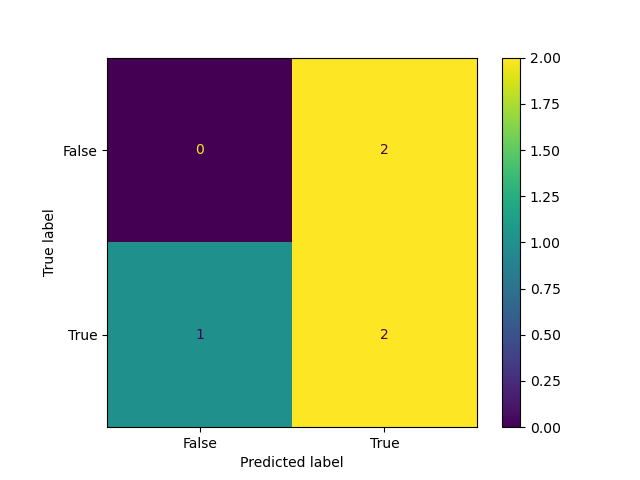
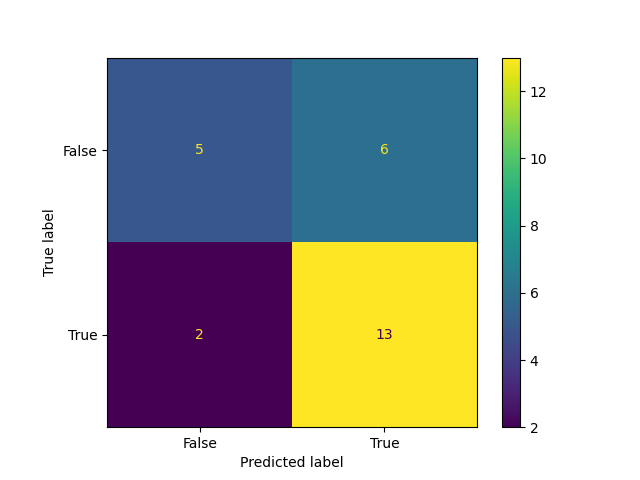
successful version

diff --git a/diagnostics.py b/diagnostics.py
@@ -1,35 +1,19 @@
-import os
-import pickle
 import timeit
 import subprocess
+import functools
 import pandas as pd
 import utils
+import ingestion
+import training
 
-
-# Load config.json and get environment variables
-config = utils.load_configuration('development')
-dataset_csv_path = os.path.join(config['output_folder_path'])
-test_data_path = os.path.join(config['test_data_path'])
-prod_deployment_path = os.path.join(config['prod_deployment_path'])
-model_name = config['model_name']
-
-
-def read_input_data(data_path: str):
-    input_data = pd.concat(
-        [pd.read_csv(os.path.join(data_path, input_file), index_col='corporation')
-         for input_file in os.listdir(data_path) if input_file.endswith(".csv")
-         ]
-    )
-    return input_data
 
 # Function to get model predictions
 
 
-def model_predictions(input_data: pd.DataFrame):
+def model_predictions(input_data: pd.DataFrame, mode='development'):
     # read the deployed model and a test dataset, calculate predictions
     # read deployed model
-    with open(os.path.join(prod_deployment_path, model_name), 'rb') as fp:
-        model = pickle.load(fp)
+    model = utils.read_model(mode)
     # drop target column if in data
     if 'exited' in input_data.columns:
         input_data = input_data.drop(['exited'], axis=1)
@@ -42,8 +26,8 @@ def model_predictions(input_data: pd.DataFrame):
 # Function to get summary statistics
 
 
-def dataframe_summary():
-    data = read_input_data(test_data_path)
+def dataframe_summary(mode='development'):
+    data = utils.read_input_data(mode)
     # calculate summary statistics here
     summary_statistics = data.describe().loc[['mean', 'std', '50%']]
     summary_statistics.index = ['mean', 'std', 'median']
@@ -54,8 +38,8 @@ def dataframe_summary():
 # Function to get percentage of missing data
 
 
-def dataframe_missing_values():
-    data = read_input_data(test_data_path)
+def dataframe_missing_values(mode='development'):
+    data = utils.read_input_data(mode)
     # For ease of use I will leverage the count values of the describe method
     # because it counts the non-null values ;)
     samples = len(data)
@@ -67,14 +51,23 @@ def dataframe_missing_values():
 
 
 # Function to get timings
-def execution_time():
+def execution_time(mode='development'):
     # calculate timing of training.py and ingestion.py
-    import ingestion
     ingestion_duration = timeit.timeit(
-        ingestion.merge_multiple_dataframe, number=1)
+        functools.partial(
+            ingestion.merge_multiple_dataframe,
+            mode
+            ),
+        number=1
+        )
 
-    import training
-    training_duration = timeit.timeit(training.train_model, number=1)
+    training_duration = timeit.timeit(
+        functools.partial(
+            training.train_model,
+            mode
+            ),
+        number=1
+        )
 
     # return a list of 2 timing values in seconds
     return [ingestion_duration, training_duration]
@@ -93,7 +86,7 @@ def outdated_packages_list():
 
 
 if __name__ == '__main__':
-    model_predictions(read_input_data(test_data_path))
+    model_predictions(utils.read_input_data('development'))
     dataframe_summary()
     execution_time()
     print(outdated_packages_list())

diff --git a/apicalls.py b/apicalls.py
@@ -6,27 +6,33 @@ import utils
 # Specify a URL that resolves to your workspace
 URL = "http://127.0.0.1:8080/"
 
-config = utils.load_configuration('development')
-test_data_path = os.path.join(config['test_data_path'])
-output_model_path = os.path.join(config['output_model_path'])
 
 
-# Call each API endpoint and store the responses
-response1 = requests.post(f'{URL}prediction?data_path={test_data_path}', timeout=10).text
-response2 = requests.get(f'{URL}scoring', timeout=10).text  # put an API call here
-response3 = requests.get(f'{URL}summarystats', timeout=10).text
-response4 = requests.get(f'{URL}diagnostics', timeout=10).text
-response5 = requests.get(f'{URL}outdatedpackages', timeout=10).text
+def call_api(mode = 'development'):
 
-# combine all API responses
-responses = {
-    'prediction': response1,
-    'f1_score': response2,
-    'summary_stats': response3,
-    'diagnostics': response4,
-    'outdated_packages': response5
-}
+    config = utils.load_configuration(mode)
+    test_data_path = os.path.join(config['test_data_path'])
+    output_model_path = os.path.join(config['output_model_path'])
 
-# write the responses to your workspace
-with open(os.path.join(output_model_path, 'apireturns.txt'), 'w', encoding='utf-8') as fp:
-    pprint(responses, width=70, stream=fp)
+    # Call each API endpoint and store the responses
+    response1 = requests.post(f'{URL}prediction?mode={mode}', timeout=10).text
+    response2 = requests.get(f'{URL}scoring?mode={mode}', timeout=10).text  # put an API call here
+    response3 = requests.get(f'{URL}summarystats?mode={mode}', timeout=10).text
+    response4 = requests.get(f'{URL}diagnostics?mode={mode}', timeout=10).text
+    response5 = requests.get(f'{URL}outdatedpackages', timeout=10).text
+
+    # combine all API responses
+    responses = {
+        'prediction': response1,
+        'f1_score': response2,
+        'summary_stats': response3,
+        'diagnostics': response4,
+        'outdated_packages': response5
+    }
+
+    # write the responses to your workspace
+    with open(os.path.join(output_model_path, 'apireturns.txt'), 'w', encoding='utf-8') as fp:
+        pprint(responses, width=70, stream=fp)
+
+if __name__ == '__main__':
+    call_api()

diff --git a/scoring.py b/scoring.py
@@ -1,18 +1,7 @@
-import pickle
 import os
 import pandas as pd
 from sklearn import metrics
 import utils
-
-def read_model(mode='development'):
-    # load model
-    config = utils.load_configuration(mode)
-    model_path = os.path.join(config['output_model_path'])
-    model_name = config['model_name']
-    model_file = os.path.join(model_path, model_name)
-    with open(os.path.join(model_file), 'rb') as fp:
-        model = pickle.load(fp)
-    return model
 
 # Function for model scoring
 
@@ -25,9 +14,7 @@ def score_model(model=None, test_data=[], write=False, mode='development'):
     # test_Data set if given
     config = utils.load_configuration(mode)
     test_data_path = os.path.join(config['test_data_path'])
-    prod_deployment_path = os.path.join(config['prod_deployment_path'])
     model_path = os.path.join(config['output_model_path'])
-    model_name = config['model_name']
 
     if len(test_data) == 0:
         test_data = os.listdir(test_data_path)
@@ -45,7 +32,7 @@ def score_model(model=None, test_data=[], write=False, mode='development'):
 
     # if no model is given, load the deployed model
     if model is None:
-        model = read_model(os.path.join(prod_deployment_path, model_name))
+        model = utils.read_model(mode)
 
     # create prediction on test_data
     prediction = model.predict(test_data)
@@ -62,6 +49,6 @@ def score_model(model=None, test_data=[], write=False, mode='development'):
 
 if __name__ == '__main__':
     score_model(
-        read_model(),
+        utils.read_model('development'),
         write=True
     )

diff --git a/fullprocess.py b/fullprocess.py
@@ -6,6 +6,7 @@ import training
 import scoring
 import deployment
 import reporting
+import apicalls
 
 config = utils.load_configuration('production')
 dataset_csv_path = os.path.join(config['output_folder_path'])
@@ -40,7 +41,7 @@ def run():
         f1_model = float(fp.read())
 
     print("Scoring against new data")
-    model_prod = scoring.read_model('production')
+    model_prod = utils.read_model('production')
     f1_new = scoring.score_model(model_prod, test_data=new_data, mode='production')
 
     # Deciding whether to proceed, part 2
@@ -52,8 +53,8 @@ def run():
         return
 
     print("Model drift detected. Preparing data and start re-training.")
-    ingestion.merge_multiple_dataframe()
-    model = training.train_model()
+    ingestion.merge_multiple_dataframe('production')
+    model = training.train_model('production')
     print("Creating new test score")
     scoring.score_model(model, write=True, mode='production')
     # Re-deployment
@@ -66,6 +67,7 @@ def run():
     reporting.score_model('production')
     # run diagnostics using the apicalls ;) do not forget to run the flask
     # server first by starting app.py in another terminal
+    apicalls.call_api('production')
 
 
 

diff --git a/app.py b/app.py
@@ -19,8 +19,8 @@ prediction_model = None
 @app.route("/prediction", methods=['POST', 'OPTIONS'])
 def predict():
     # call the prediction function you created in Step 3
-    data_path = request.args.get('data_path')
-    data = diagnostics.read_input_data(data_path)
+    mode = request.args.get('mode')
+    data = utils.read_input_data(mode)
     predictions = diagnostics.model_predictions(data)
     return jsonify(str(predictions))  # add return value for prediction outputs
 
@@ -30,7 +30,8 @@ def predict():
 @app.route("/scoring", methods=['GET', 'OPTIONS'])
 def score():
     # check the score of the deployed model
-    f1 = scoring.score_model()
+    mode = request.args.get('mode')
+    f1 = scoring.score_model(mode=mode)
     return jsonify(f1)  # add return value (a single F1 score number)
 
 # Summary Statistics Endpoint
@@ -55,7 +56,7 @@ def diagnose():
         'na_percentage': na_prcnt,
         'timings': {
             'ingestion_duration': timings[0],
-            'training_duration': timings[0]
+            'training_duration': timings[1]
         }
     }
     return jsonify(str(diagnosis))  # add return value for all diagnostics

diff --git a/utils.py b/utils.py
@@ -1,4 +1,7 @@
+import os
 import json
+import pickle
+import pandas as pd
 
 def load_configuration(mode:str):
     # Load config.json and get input and output paths
@@ -6,3 +9,23 @@ def load_configuration(mode:str):
         config = json.load(f)
 
     return config[mode]
+
+def read_input_data(mode:str='development'):
+    config = load_configuration(mode)
+    data_path = os.path.join(config['output_folder_path'])
+    input_data = pd.concat(
+        [pd.read_csv(os.path.join(data_path, input_file), index_col='corporation')
+         for input_file in os.listdir(data_path) if input_file.endswith(".csv")
+         ]
+    )
+    return input_data
+
+def read_model(mode='development'):
+    # load model
+    config = load_configuration(mode)
+    model_path = os.path.join(config['output_model_path'])
+    model_name = config['model_name']
+    model_file = os.path.join(model_path, model_name)
+    with open(os.path.join(model_file), 'rb') as fp:
+        model = pickle.load(fp)
+    return model

diff --git a/deployment.py b/deployment.py
@@ -6,7 +6,7 @@ import utils
 
 
 def store_model_into_pickle(mode='development'):
-    # copy the latest pickle file, the latestscore.txt value, 
+    # copy the latest pickle file, the latestscore.txt value,
     # and the ingestfiles.txt file into the deployment directory
     # copy the latest pickle file
     config = utils.load_configuration(mode)
@@ -14,7 +14,6 @@ def store_model_into_pickle(mode='development'):
     model_path = os.path.join(config['output_model_path'])
     model_name = config['model_name']
     deployment_path = os.path.join(config['prod_deployment_path'])
-    
     latest_pickle_file = os.path.join(model_path, model_name)
     deploy_pickle_file = os.path.join(deployment_path, model_name)
     shutil.copyfile(latest_pickle_file, deploy_pickle_file)
@@ -29,5 +28,5 @@ def store_model_into_pickle(mode='development'):
 
 
 if __name__ == '__main__':
-    
     store_model_into_pickle()
+    

diff --git a/reporting.py b/reporting.py
@@ -9,10 +9,9 @@ import diagnostics
 def score_model(mode='development'):
     ###############Load config.json and get path variables
     config = utils.load_configuration(mode)
-    test_data_path = os.path.join(config['test_data_path'])
     output_model_path = os.path.join(config['output_model_path'])
     #calculate a confusion matrix using the test data and the deployed model
-    test_data = diagnostics.read_input_data(test_data_path)
+    test_data = utils.read_input_data(mode)
     test_data['prediction'] = diagnostics.model_predictions(test_data)
     confusion_matrix = metrics.confusion_matrix(test_data['exited'],test_data['prediction'])
     #write the confusion matrix to the workspace

diff --git a/training.py b/training.py
@@ -8,7 +8,6 @@ import utils
 
 # Function for training the model
 def train_model(mode='development'):
-    
     config = utils.load_configuration(mode)
     input_folder_path = config['output_folder_path']
     input_name = config['final_data_name']

diff --git a/ingestion.py b/ingestion.py
@@ -4,7 +4,6 @@ import pandas as pd
 import utils
 
 
-    
 # Function for data ingestion
 def merge_multiple_dataframe(mode='development'):
     config = utils.load_configuration(mode)
